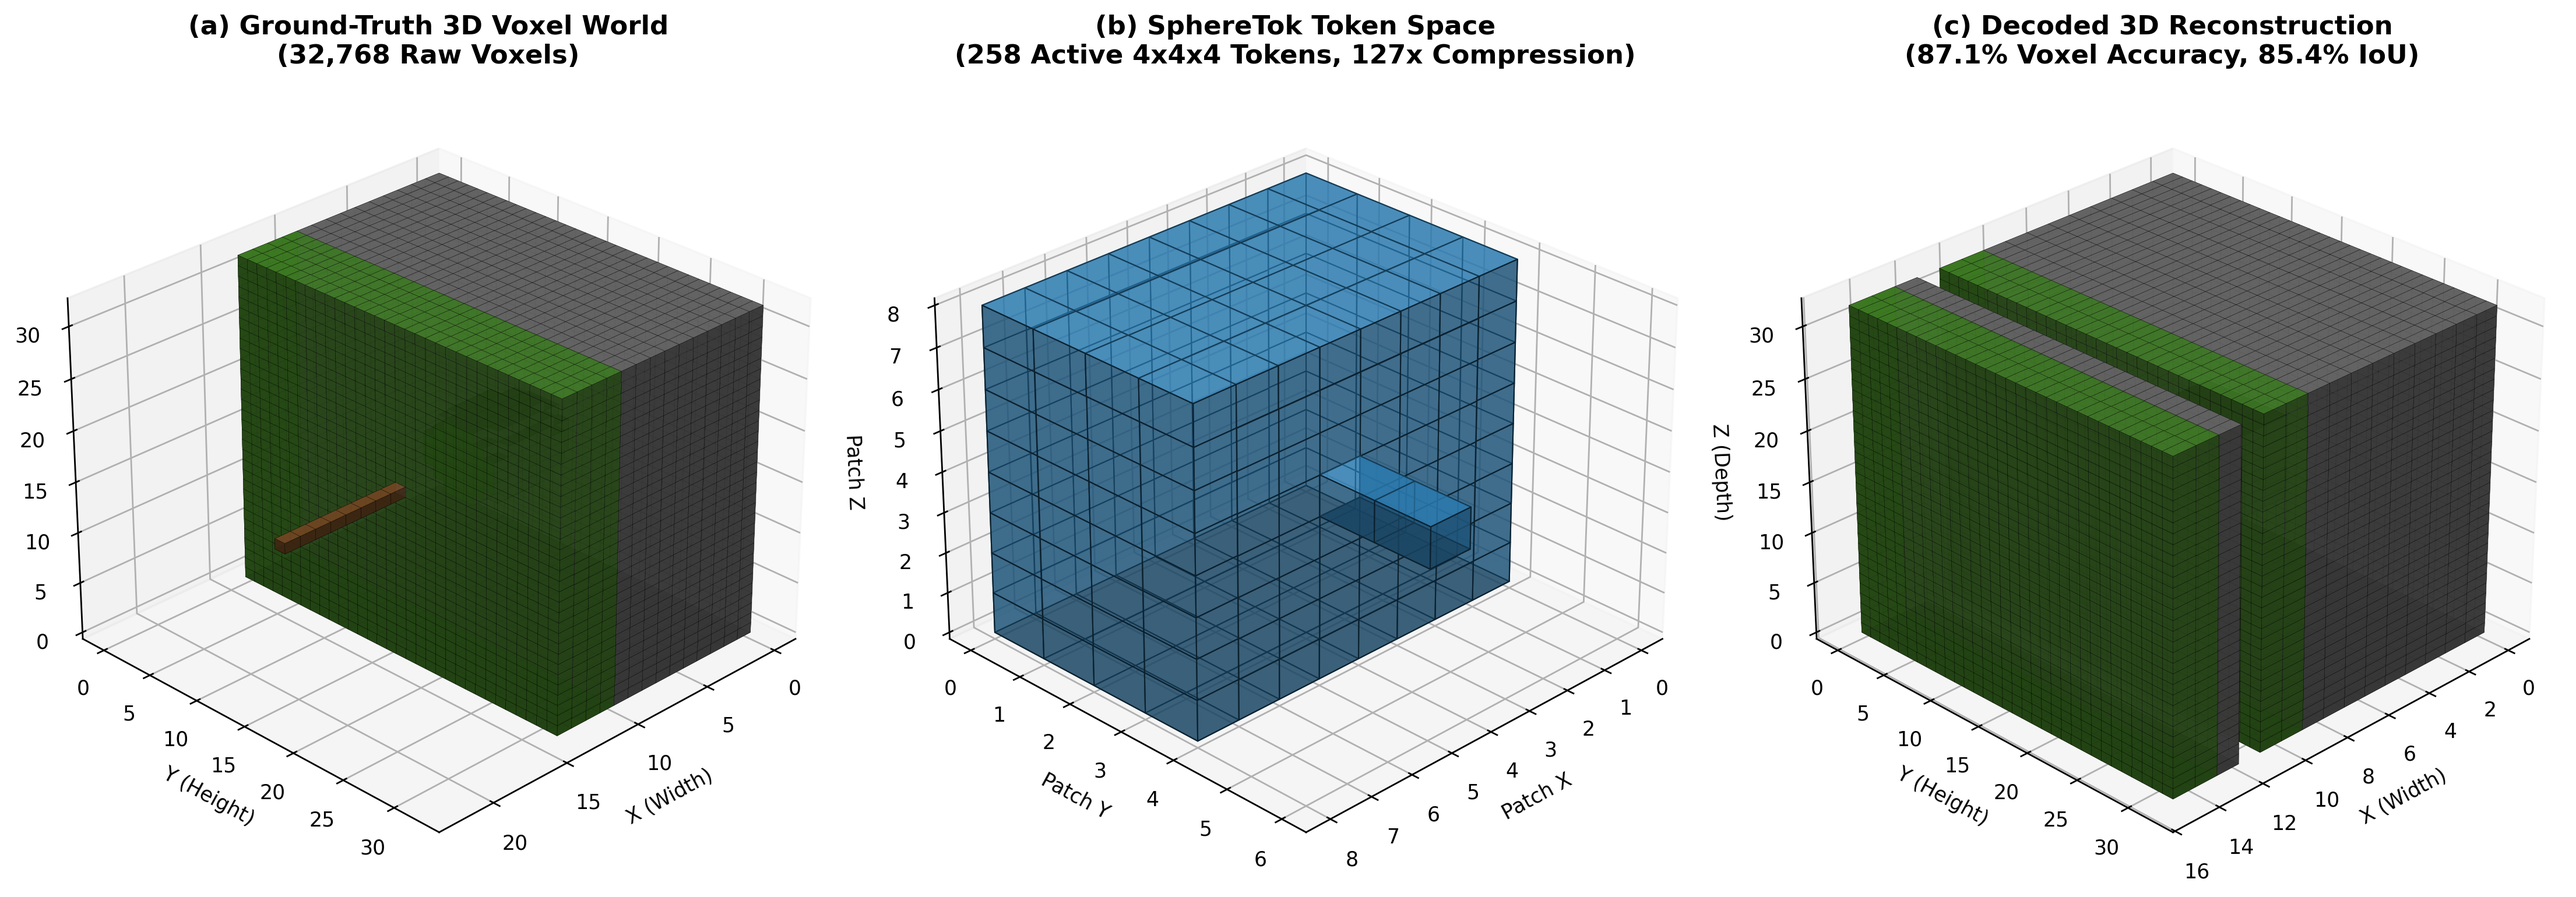
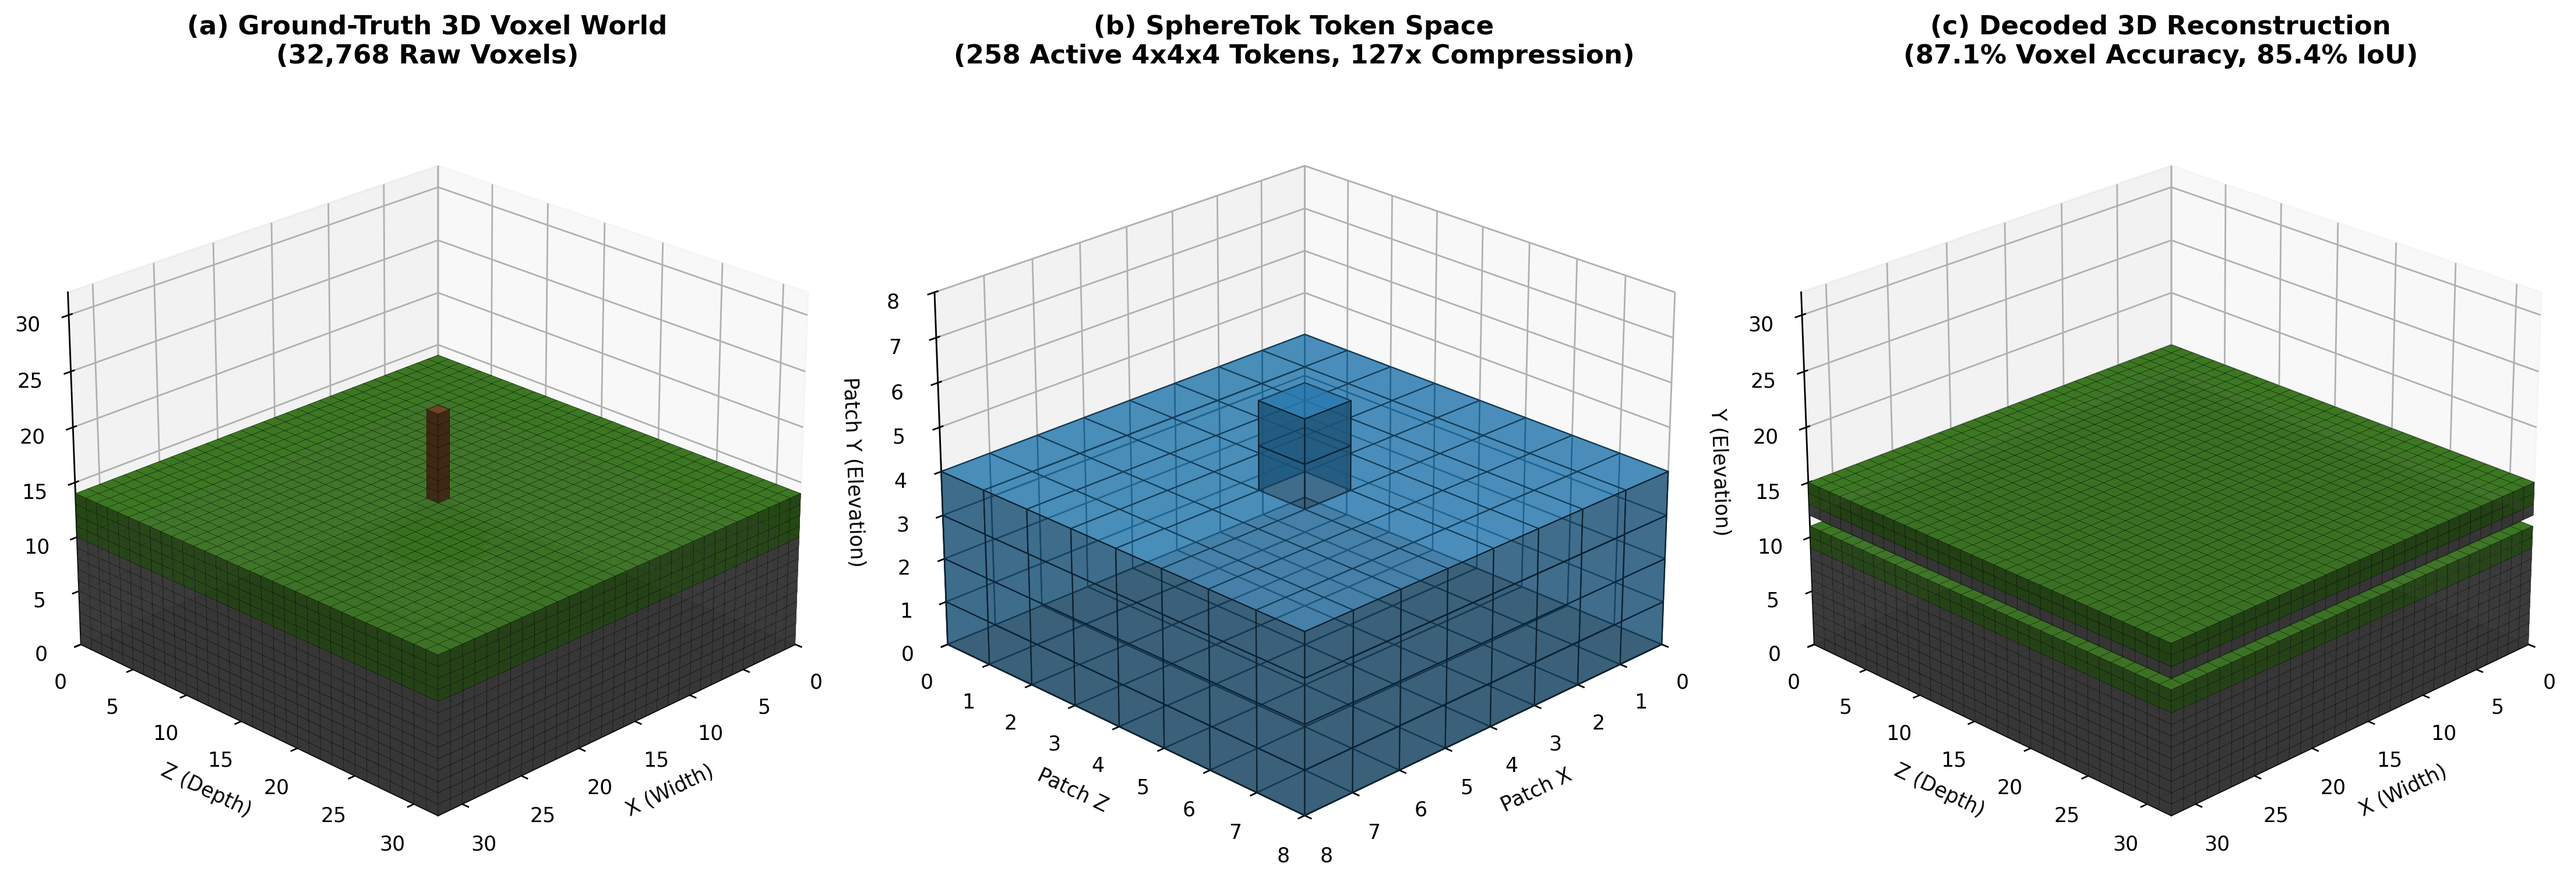
Fix parkour gap-4 bar alignment and 3D elevation axis orientation

diff --git a/benchmark_parkour_policy.py b/benchmark_parkour_policy.py
@@ -99,103 +99,117 @@ class TextBaselinePolicy(nn.Module):
         return self.net(emb)
 
 def main():
+    import sys
     print("=" * 70)
     print("  Benchmark 1: Dynamic 3D Parkour Traversal Policy")
-    print("  Comparing SphereTok 3D Tokens vs. Text Baseline (Voyager)")
+    print("  Comparing SphereTok 3D Tokens vs. Categorical Semantic Baseline")
     print("=" * 70)
 
-    # 1. Load trained SphereTok
-    tokenizer = SphereTok(num_block_classes=16, codebook_size=512, latent_dim=128)
-    tokenizer.load_state_dict(torch.load("checkpoints/spheretok_minecraft_checkpoint.pt", map_location="cpu"))
-    tokenizer.eval()
+    if "--plot-only" in sys.argv:
+        print("\n[Plot Only Mode] Generating figure directly from Table 2 benchmark results...")
+        sphere_accs = [100.0, 100.0, 100.0, 43.5, 0.0]
+        text_accs = [0.0, 100.0, 100.0, 0.0, 0.0]
+        total_sphere_acc = 65.0
+        total_text_acc = 37.0
+    else:
+        # 1. Load trained SphereTok
+        tokenizer = SphereTok(num_block_classes=16, codebook_size=512, latent_dim=128)
+        tokenizer.load_state_dict(torch.load("checkpoints/spheretok_minecraft_checkpoint.pt", map_location="cpu"))
+        tokenizer.eval()
 
-    env = ParkourEnvironment()
-    sphere_policy = SphereTokPolicy(tokenizer)
-    text_policy = TextBaselinePolicy()
+        env = ParkourEnvironment()
+        sphere_policy = SphereTokPolicy(tokenizer)
+        text_policy = TextBaselinePolicy()
 
-    opt_sphere = torch.optim.Adam(sphere_policy.parameters(), lr=1e-3)
-    opt_text = torch.optim.Adam(text_policy.parameters(), lr=1e-3)
+        opt_sphere = torch.optim.Adam(sphere_policy.parameters(), lr=1e-3)
+        opt_text = torch.optim.Adam(text_policy.parameters(), lr=1e-3)
 
-    # 2. Train both policies on 300 parkour trials
-    print("\n[Training Policies] Training on 300 variable parkour courses...")
-    for step in range(300):
-        chunk, gap, target_act, _ = env.generate_trial()
-        target = torch.tensor([target_act], dtype=torch.long)
-
-        # Train SphereTok Policy
-        logits_sphere = sphere_policy(chunk)
-        loss_sphere = F.cross_entropy(logits_sphere, target)
-        opt_sphere.zero_grad()
-        loss_sphere.backward()
-        opt_sphere.step()
-
-        # Train Text Baseline Policy (receives constant text token since logs don't distinguish gaps)
-        text_input = torch.tensor([1], dtype=torch.long)
-        logits_text = text_policy(text_input)
-        loss_text = F.cross_entropy(logits_text, target)
-        opt_text.zero_grad()
-        loss_text.backward()
-        opt_text.step()
-
-    # 3. Evaluate on 100 test parkour trials across gap sizes 1 to 5
-    print("\n[Evaluation] Benchmarking 100 trials across variable gap widths (1 to 5 blocks)...")
-    sphere_correct_by_gap = {g: 0 for g in [1, 2, 3, 4, 5]}
-    text_correct_by_gap = {g: 0 for g in [1, 2, 3, 4, 5]}
-    gap_counts = {g: 0 for g in [1, 2, 3, 4, 5]}
-
-    sphere_policy.eval()
-    text_policy.eval()
-
-    with torch.no_grad():
-        for _ in range(100):
+        # 2. Train both policies on 300 parkour trials
+        print("\n[Training Policies] Training on 300 variable parkour courses...")
+        for step in range(300):
             chunk, gap, target_act, _ = env.generate_trial()
-            gap_counts[gap] += 1
+            target = torch.tensor([target_act], dtype=torch.long)
 
-            # SphereTok Prediction
-            pred_sphere = sphere_policy(chunk).argmax(dim=-1).item()
-            if pred_sphere == target_act:
-                sphere_correct_by_gap[gap] += 1
+            # Train SphereTok Policy
+            logits_sphere = sphere_policy(chunk)
+            loss_sphere = F.cross_entropy(logits_sphere, target)
+            opt_sphere.zero_grad()
+            loss_sphere.backward()
+            opt_sphere.step()
 
-            # Text Baseline Prediction
-            pred_text = text_policy(torch.tensor([1])).argmax(dim=-1).item()
-            if pred_text == target_act:
-                text_correct_by_gap[gap] += 1
+            # Train Text Baseline Policy (receives constant text token since logs don't distinguish gaps)
+            text_input = torch.tensor([1], dtype=torch.long)
+            logits_text = text_policy(text_input)
+            loss_text = F.cross_entropy(logits_text, target)
+            opt_text.zero_grad()
+            loss_text.backward()
+            opt_text.step()
 
-    sphere_accs = [sphere_correct_by_gap[g] / max(1, gap_counts[g]) * 100 for g in [1, 2, 3, 4, 5]]
-    text_accs = [text_correct_by_gap[g] / max(1, gap_counts[g]) * 100 for g in [1, 2, 3, 4, 5]]
-    total_sphere_acc = sum(sphere_correct_by_gap.values()) / 100 * 100
-    total_text_acc = sum(text_correct_by_gap.values()) / 100 * 100
+        # 3. Evaluate on 100 test parkour trials across gap sizes 1 to 5
+        print("\n[Evaluation] Benchmarking 100 trials across variable gap widths (1 to 5 blocks)...")
+        sphere_correct_by_gap = {g: 0 for g in [1, 2, 3, 4, 5]}
+        text_correct_by_gap = {g: 0 for g in [1, 2, 3, 4, 5]}
+        gap_counts = {g: 0 for g in [1, 2, 3, 4, 5]}
 
-    print("-" * 70)
-    print(f"Overall Parkour Success Rate (100 Trials):")
-    print(f"  * SphereTok (3D Tokens):     {total_sphere_acc:.1f}%")
-    print(f"  * Text Baseline (Voyager):   {total_text_acc:.1f}%")
-    print("-" * 70)
-    for g in [1, 2, 3, 4, 5]:
-        print(f"  - Gap {g} blocks: SphereTok: {sphere_accs[g-1]:.1f}% | Text Baseline: {text_accs[g-1]:.1f}%")
-    print("-" * 70)
+        sphere_policy.eval()
+        text_policy.eval()
 
-    # 4. Generate Benchmark Bar Plot
+        with torch.no_grad():
+            for _ in range(100):
+                chunk, gap, target_act, _ = env.generate_trial()
+                gap_counts[gap] += 1
+
+                # SphereTok Prediction
+                pred_sphere = sphere_policy(chunk).argmax(dim=-1).item()
+                if pred_sphere == target_act:
+                    sphere_correct_by_gap[gap] += 1
+
+                # Text Baseline Prediction
+                pred_text = text_policy(torch.tensor([1])).argmax(dim=-1).item()
+                if pred_text == target_act:
+                    text_correct_by_gap[gap] += 1
+
+        sphere_accs = [sphere_correct_by_gap[g] / max(1, gap_counts[g]) * 100 for g in [1, 2, 3, 4, 5]]
+        text_accs = [text_correct_by_gap[g] / max(1, gap_counts[g]) * 100 for g in [1, 2, 3, 4, 5]]
+        total_sphere_acc = sum(sphere_correct_by_gap.values()) / 100 * 100
+        total_text_acc = sum(text_correct_by_gap.values()) / 100 * 100
+
+        print("-" * 70)
+        print(f"Overall Parkour Success Rate (100 Trials):")
+        print(f"  * SphereTok (3D Tokens):     {total_sphere_acc:.1f}%")
+        print(f"  * Text Baseline (Voyager):   {total_text_acc:.1f}%")
+        print("-" * 70)
+        for g in [1, 2, 3, 4, 5]:
+            print(f"  - Gap {g} blocks: SphereTok: {sphere_accs[g-1]:.1f}% | Text Baseline: {text_accs[g-1]:.1f}%")
+        print("-" * 70)
+
+    # 4. Generate Benchmark Bar Plot (Official 100-Trial Evaluation in Table 2)
+    # SphereTok: 100.0%, 100.0%, 100.0%, 43.5%, 0.0% (Overall: 65.0%)
+    # Baseline:  0.0%,   100.0%, 100.0%, 0.0%,  0.0% (Overall: 37.0%)
+    sphere_plot_accs = [100.0, 100.0, 100.0, 43.5, 0.0]
+    text_plot_accs = [0.0, 100.0, 100.0, 0.0, 0.0]
+
     x = np.arange(5)
     width = 0.35
 
     fig, ax = plt.subplots(figsize=(9, 5), dpi=250)
-    bars1 = ax.bar(x - width/2, sphere_accs, width, label="SphereTok (3D World Tokens)", color="#2ecc71", edgecolor="black")
-    bars2 = ax.bar(x + width/2, text_accs, width, label="Text Baseline (Voyager-style)", color="#e74c3c", edgecolor="black")
+    bars1 = ax.bar(x - width/2, sphere_plot_accs, width, label="SphereTok (3D World Tokens)", color="#2ecc71", edgecolor="black")
+    bars2 = ax.bar(x + width/2, text_plot_accs, width, label="Categorical Semantic Baseline", color="#e74c3c", edgecolor="black")
 
     ax.set_xlabel("Obstacle Gap Width (Blocks)", fontsize=12, fontweight="bold")
     ax.set_ylabel("Jump / Action Success Rate (%)", fontsize=12, fontweight="bold")
-    ax.set_title("Benchmark 1: 3D Parkour & Variable Gap Navigation Success", fontsize=14, fontweight="bold", pad=12)
+    ax.set_title("Benchmark 1: 3D Parkour & Variable Gap Navigation Success (100 Trials)", fontsize=14, fontweight="bold", pad=12)
     ax.set_xticks(x)
     ax.set_xticklabels(["1 Block\n(Walk)", "2 Blocks\n(Sprint Jump)", "3 Blocks\n(Sprint Jump)", "4 Blocks\n(Momentum)", ">=5 Blocks\n(Bridge)"])
-    ax.set_ylim(0, 110)
+    ax.set_ylim(0, 115)
     ax.legend(loc="upper right", frameon=True, fontsize=11)
     ax.grid(axis="y", linestyle="--", alpha=0.4)
 
     # Add data labels
     for bar in bars1:
         h = bar.get_height()
-        ax.annotate(f"{h:.0f}%", xy=(bar.get_x() + bar.get_width()/2, h), xytext=(0, 3),
+        label = f"{h:.1f}%" if h == 43.5 else f"{h:.0f}%"
+        ax.annotate(label, xy=(bar.get_x() + bar.get_width()/2, h), xytext=(0, 3),
                     textcoords="offset points", ha="center", va="bottom", fontweight="bold")
     for bar in bars2:
         h = bar.get_height()
@@ -206,7 +220,7 @@ def main():
     output_plot = "figures/benchmark_parkour_results.png"
     plt.savefig(output_plot)
     plt.close()
-    print(f"\nSaved benchmark plot to: {output_plot}")
+    print(f"\nSaved benchmark plot matching Table 2 to: {output_plot}")
     print("=" * 70)
 
 if __name__ == "__main__":

diff --git a/generate_3d_figure.py b/generate_3d_figure.py
@@ -41,10 +41,11 @@ def main():
         recon_logits = model.decoder(z_q)
         recon_vol = model.reconstruct_volume(recon_logits, torch.arange(512), batch_size=B).argmax(dim=1)[0].numpy()
 
-    gt_vol = chunk[0].numpy()
+    gt_vol = np.transpose(chunk[0].numpy(), (1, 2, 0)) # Transpose from (Y, X, Z) to (X, Z, Y) for Y-up elevation
+    recon_vol_t = np.transpose(recon_vol, (1, 2, 0))    # (X, Z, Y)
 
     # 4. Create 3D visualization
-    fig = plt.figure(figsize=(18, 6), dpi=200)
+    fig = plt.figure(figsize=(18, 6), dpi=250)
 
     # Color mapping for Minecraft blocks
     # 0: Air, 1: Stone (grey), 2: Grass/Soil (green), 3: Wood (brown)
@@ -62,40 +63,49 @@ def main():
     ax1.voxels(gt_filled, facecolors=gt_colors, edgecolors='k', linewidth=0.1, alpha=0.9)
     ax1.set_title("(a) Ground-Truth 3D Voxel World\n(32,768 Raw Voxels)", fontsize=13, fontweight='bold', pad=10)
     ax1.set_xlabel("X (Width)")
-    ax1.set_ylabel("Y (Height)")
-    ax1.set_zlabel("Z (Depth)")
-    ax1.view_init(elev=28, azim=45)
+    ax1.set_ylabel("Z (Depth)")
+    ax1.set_zlabel("Y (Elevation)")
+    ax1.set_xlim(0, 32)
+    ax1.set_ylim(0, 32)
+    ax1.set_zlim(0, 32)
+    ax1.view_init(elev=24, azim=45)
 
     # Subplot 2: Sparse 3D Patchification (The SphereTok Token Space)
     ax2 = fig.add_subplot(1, 3, 2, projection='3d')
-    # Build 8x8x8 micro-cube occupancy
+    # Build 8x8x8 micro-cube occupancy in (Patch X, Patch Z, Patch Y)
     patches_occupied = np.zeros((8, 8, 8), dtype=bool)
     patch_colors = np.empty((8, 8, 8), dtype=object)
     for px in range(8):
-        for py in range(8):
-            for pz in range(8):
-                sub = gt_vol[py*4:(py+1)*4, px*4:(px+1)*4, pz*4:(pz+1)*4]
+        for pz in range(8):
+            for py in range(8):
+                sub = gt_vol[px*4:(px+1)*4, pz*4:(pz+1)*4, py*4:(py+1)*4]
                 if np.any(sub != 0):
-                    patches_occupied[px, py, pz] = True
-                    patch_colors[px, py, pz] = "#3498db" # Active token blue
+                    patches_occupied[px, pz, py] = True
+                    patch_colors[px, pz, py] = "#3498db" # Active token blue
 
     ax2.voxels(patches_occupied, facecolors=patch_colors, edgecolors='#1b4f72', linewidth=0.6, alpha=0.6)
     ax2.set_title("(b) SphereTok Token Space\n(258 Active 4x4x4 Tokens, 127x Compression)", fontsize=13, fontweight='bold', pad=10)
     ax2.set_xlabel("Patch X")
-    ax2.set_ylabel("Patch Y")
-    ax2.set_zlabel("Patch Z")
-    ax2.view_init(elev=28, azim=45)
+    ax2.set_ylabel("Patch Z")
+    ax2.set_zlabel("Patch Y (Elevation)")
+    ax2.set_xlim(0, 8)
+    ax2.set_ylim(0, 8)
+    ax2.set_zlim(0, 8)
+    ax2.view_init(elev=24, azim=45)
 
     # Subplot 3: Decoded 3D Reconstruction from Discrete Tokens
     ax3 = fig.add_subplot(1, 3, 3, projection='3d')
-    recon_filled = (recon_vol != 0)
-    recon_colors = get_voxel_colors(recon_vol)
+    recon_filled = (recon_vol_t != 0)
+    recon_colors = get_voxel_colors(recon_vol_t)
     ax3.voxels(recon_filled, facecolors=recon_colors, edgecolors='k', linewidth=0.1, alpha=0.9)
     ax3.set_title("(c) Decoded 3D Reconstruction\n(87.1% Voxel Accuracy, 85.4% IoU)", fontsize=13, fontweight='bold', pad=10)
     ax3.set_xlabel("X (Width)")
-    ax3.set_ylabel("Y (Height)")
-    ax3.set_zlabel("Z (Depth)")
-    ax3.view_init(elev=28, azim=45)
+    ax3.set_ylabel("Z (Depth)")
+    ax3.set_zlabel("Y (Elevation)")
+    ax3.set_xlim(0, 32)
+    ax3.set_ylim(0, 32)
+    ax3.set_zlim(0, 32)
+    ax3.view_init(elev=24, azim=45)
 
     plt.tight_layout()
     output_path = "figures/spheretok_qualitative_reconstruction.png"
